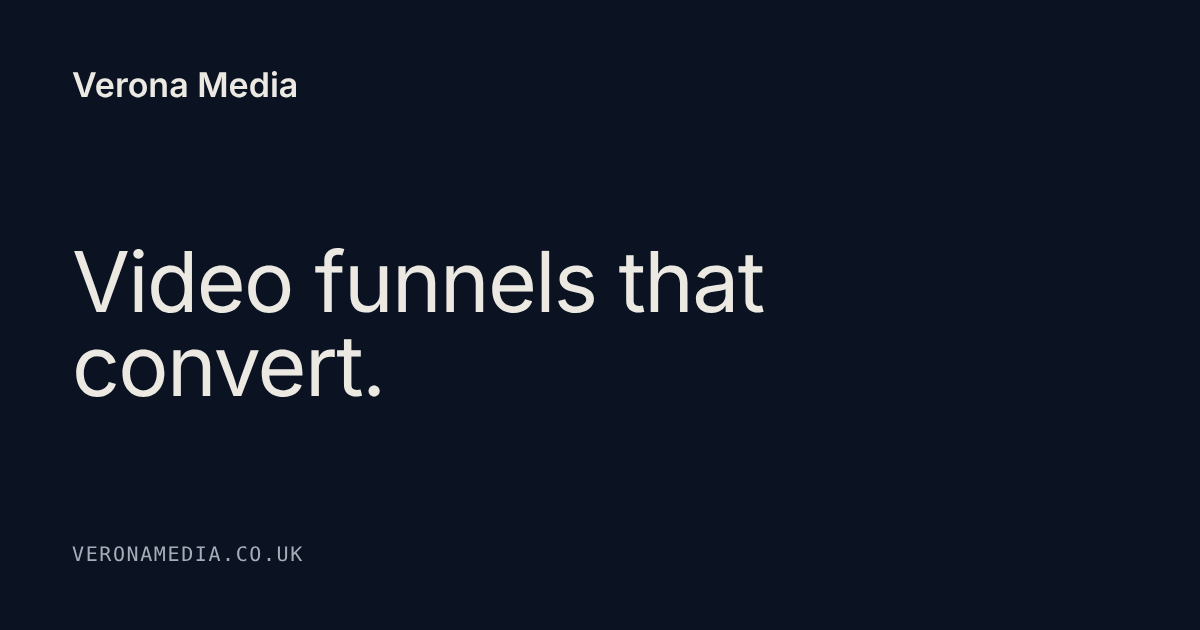
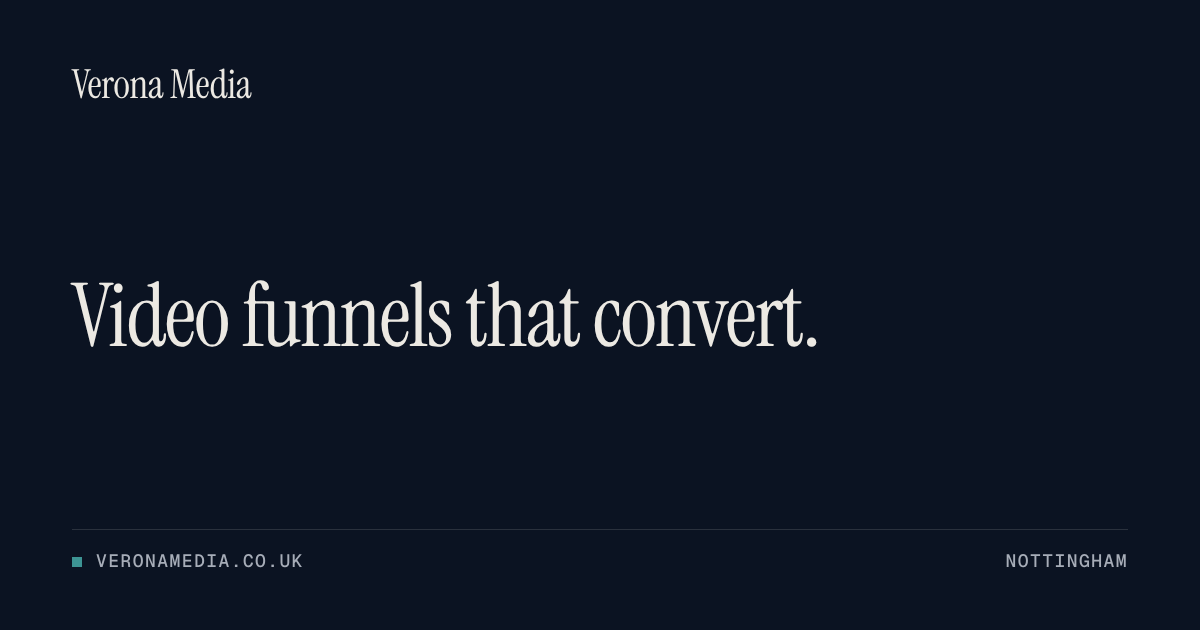
Rewrite AGENTS.md §5, regenerate OG image, add screenshots
- AGENTS.md §5 replaced with DESIGN_BRIEF.md §11 (needs Kai's approval),
  plus the middle-dot section-label rule
- public/og-default.png in the new system (text only)
- docs/screenshots/drawing-set: /, /video-for-architects and
  /how-it-works at 375 and 1440, and the hero next to the references

Claude-Session: https://claude.ai/code/session_014YGpfANYiSZtU3yL3buUdf

diff --git a/AGENTS.md b/AGENTS.md
@@ -86,30 +86,26 @@ brands, businesses, clients
     - CI fails if the token appears in production HTML.
     - Never "fill in" a placeholder with plausible-sounding copy.
 
-## 5. Design tokens
+## 5. Design tokens ("The Drawing Set", Oct 2026; full spec in DESIGN_BRIEF.md)
 
 | Token | Hex | Use |
 |---|---|---|
-| `navy` | `#0E1E4E` | Page background (dark theme by default) |
-| `deep` | `#0A1638` | Alternating section bands, footer |
-| `teal` | `#3D9494` | Primary buttons, accents, left borders. **Not** for small text on navy (4.46:1). |
-| `teal-light` | `#4FB3B2` | Highlighted words, numbers, links and small accent text on navy (6.41:1) |
-| `paper` | `#F2F2F2` | Body text (14.27:1 on navy) |
-| `line` | `rgba(242,242,242,.13)` | Decorative dividers and card borders only. Not form inputs (1.44:1). |
-| `muted` | `rgba(242,242,242,.66)` | Secondary text (6.88:1 on navy) |
+| `ink` | `#0B1322` | Dark ground (hero, What you get, Work, CTA, footer) |
+| `ink-2` / `ink-3` | `#121C2E` / `#1A263C` | Raised / hover surfaces on dark |
+| `stone` / `stone-2` | `#F3F0EA` / `#E8E3D9` | Light ground / raised light surface |
+| `graphite` / `slate` | `#16191F` / `#585E68` | Text / secondary text on stone (15.5:1 / 5.7:1) |
+| `mist` / `fog` | `#ECE9E3` / `#A7ADB8` | Text / secondary text on ink (15.3:1 / 8.2:1) |
+| `teal` | `#3D9494` | Brand. Primary button on ink (ink label, 5.2:1); strokes. Never text on stone (3.15:1). |
+| `teal-deep` | `#1F5C59` | Primary button on stone (stone label, 6.75:1); links and emphasis on stone |
+| `teal-light` | `#7CC4BE` | Links, emphasis, focus rings on ink (9.3:1) |
 
-- **Primary button:** teal background with **deep navy `#0A1638` label text** (4.95:1).
-  - Paper text on teal is only 3.2:1, so it is allowed only at ≥ 19px bold.
-  - Labels are uppercase Space Grotesk 700, with a soft teal glow that lifts on hover.
-- **Headings, buttons, numbers and eyebrows:** Space Grotesk 700 (500 allowed for eyebrows).
-- **Body:** Raleway 400–600.
-- Self-host both fonts with `@fontsource` (no Google Fonts `<link>`). Preload the Space Grotesk 700 woff2 file.
-- **Eyebrow:** small uppercase teal-light label above an H2.
-- **Layout:**
-  - Content width 1080px.
-  - One responsive breakpoint at 900px. Below it, everything collapses to one column and horizontal flows become vertical.
-  - Hover reveals are always visible on touch and narrow screens.
-- **FAQ:** native `<details>/<summary>`, no JavaScript.
+- Fonts (self-hosted via Fontsource): Instrument Serif 400/italic for headings and quotes; Instrument Sans (variable) for body, UI and buttons; Geist Mono 500 for uppercase labels only. Preload Instrument Serif 400 latin.
+- Headings are sentence case, serif, weight 400. Uppercase only in mono labels (+0.08em tracking).
+- Section labels use a middle dot, never an em dash: `02 · The problem`.
+- Buttons: 52px, 2px radius, sentence case, no glow. One solid teal button per screen; the header CTA is an outline button.
+- Hairlines, not boxes; no shadows, glows or gradients. Container 1320px, 12-column grid, one breakpoint at 900px, fluid type with clamp().
+- Motion is CSS-only and respects prefers-reduced-motion. No autoplay, carousels, marquees, parallax or preloaders.
+- FAQ: native <details>/<summary>, no JavaScript.
 
 ## 6. Engineering rules
 

diff --git a/README.md b/README.md
@@ -37,6 +37,10 @@ Set these in Cloudflare Pages (Settings → Environment variables). See `.env.ex
 - `src/content/insights/*.md`: blog posts. `draft: true` posts only appear in preview builds. The footer link and the `/insights` index appear once a post is published
 - `public/_redirects`: old Squarespace URLs → new pages
 
+## Design system
+
+"The Drawing Set" (`DESIGN_BRIEF.md`). Tokens and every component style live in `src/styles/global.css`. Components read only the variables a surface sets (`.surface-ink` / `.surface-stone`), so the same component works on either band. Fonts are self-hosted with Fontsource (Instrument Serif, Instrument Sans, Geist Mono). Motion is CSS-only and switched off under `prefers-reduced-motion`. Tailwind supplies the theme layer and preflight only; automatic class scanning is off, so style with the semantic classes.
+
 ## Placeholders
 
 Anything still to come from Kai is written as `[[PLACEHOLDER: what's needed]]` in content. Preview builds show it; production builds drop the block it's in, and `npm run check` fails if a token ever reaches production HTML.
